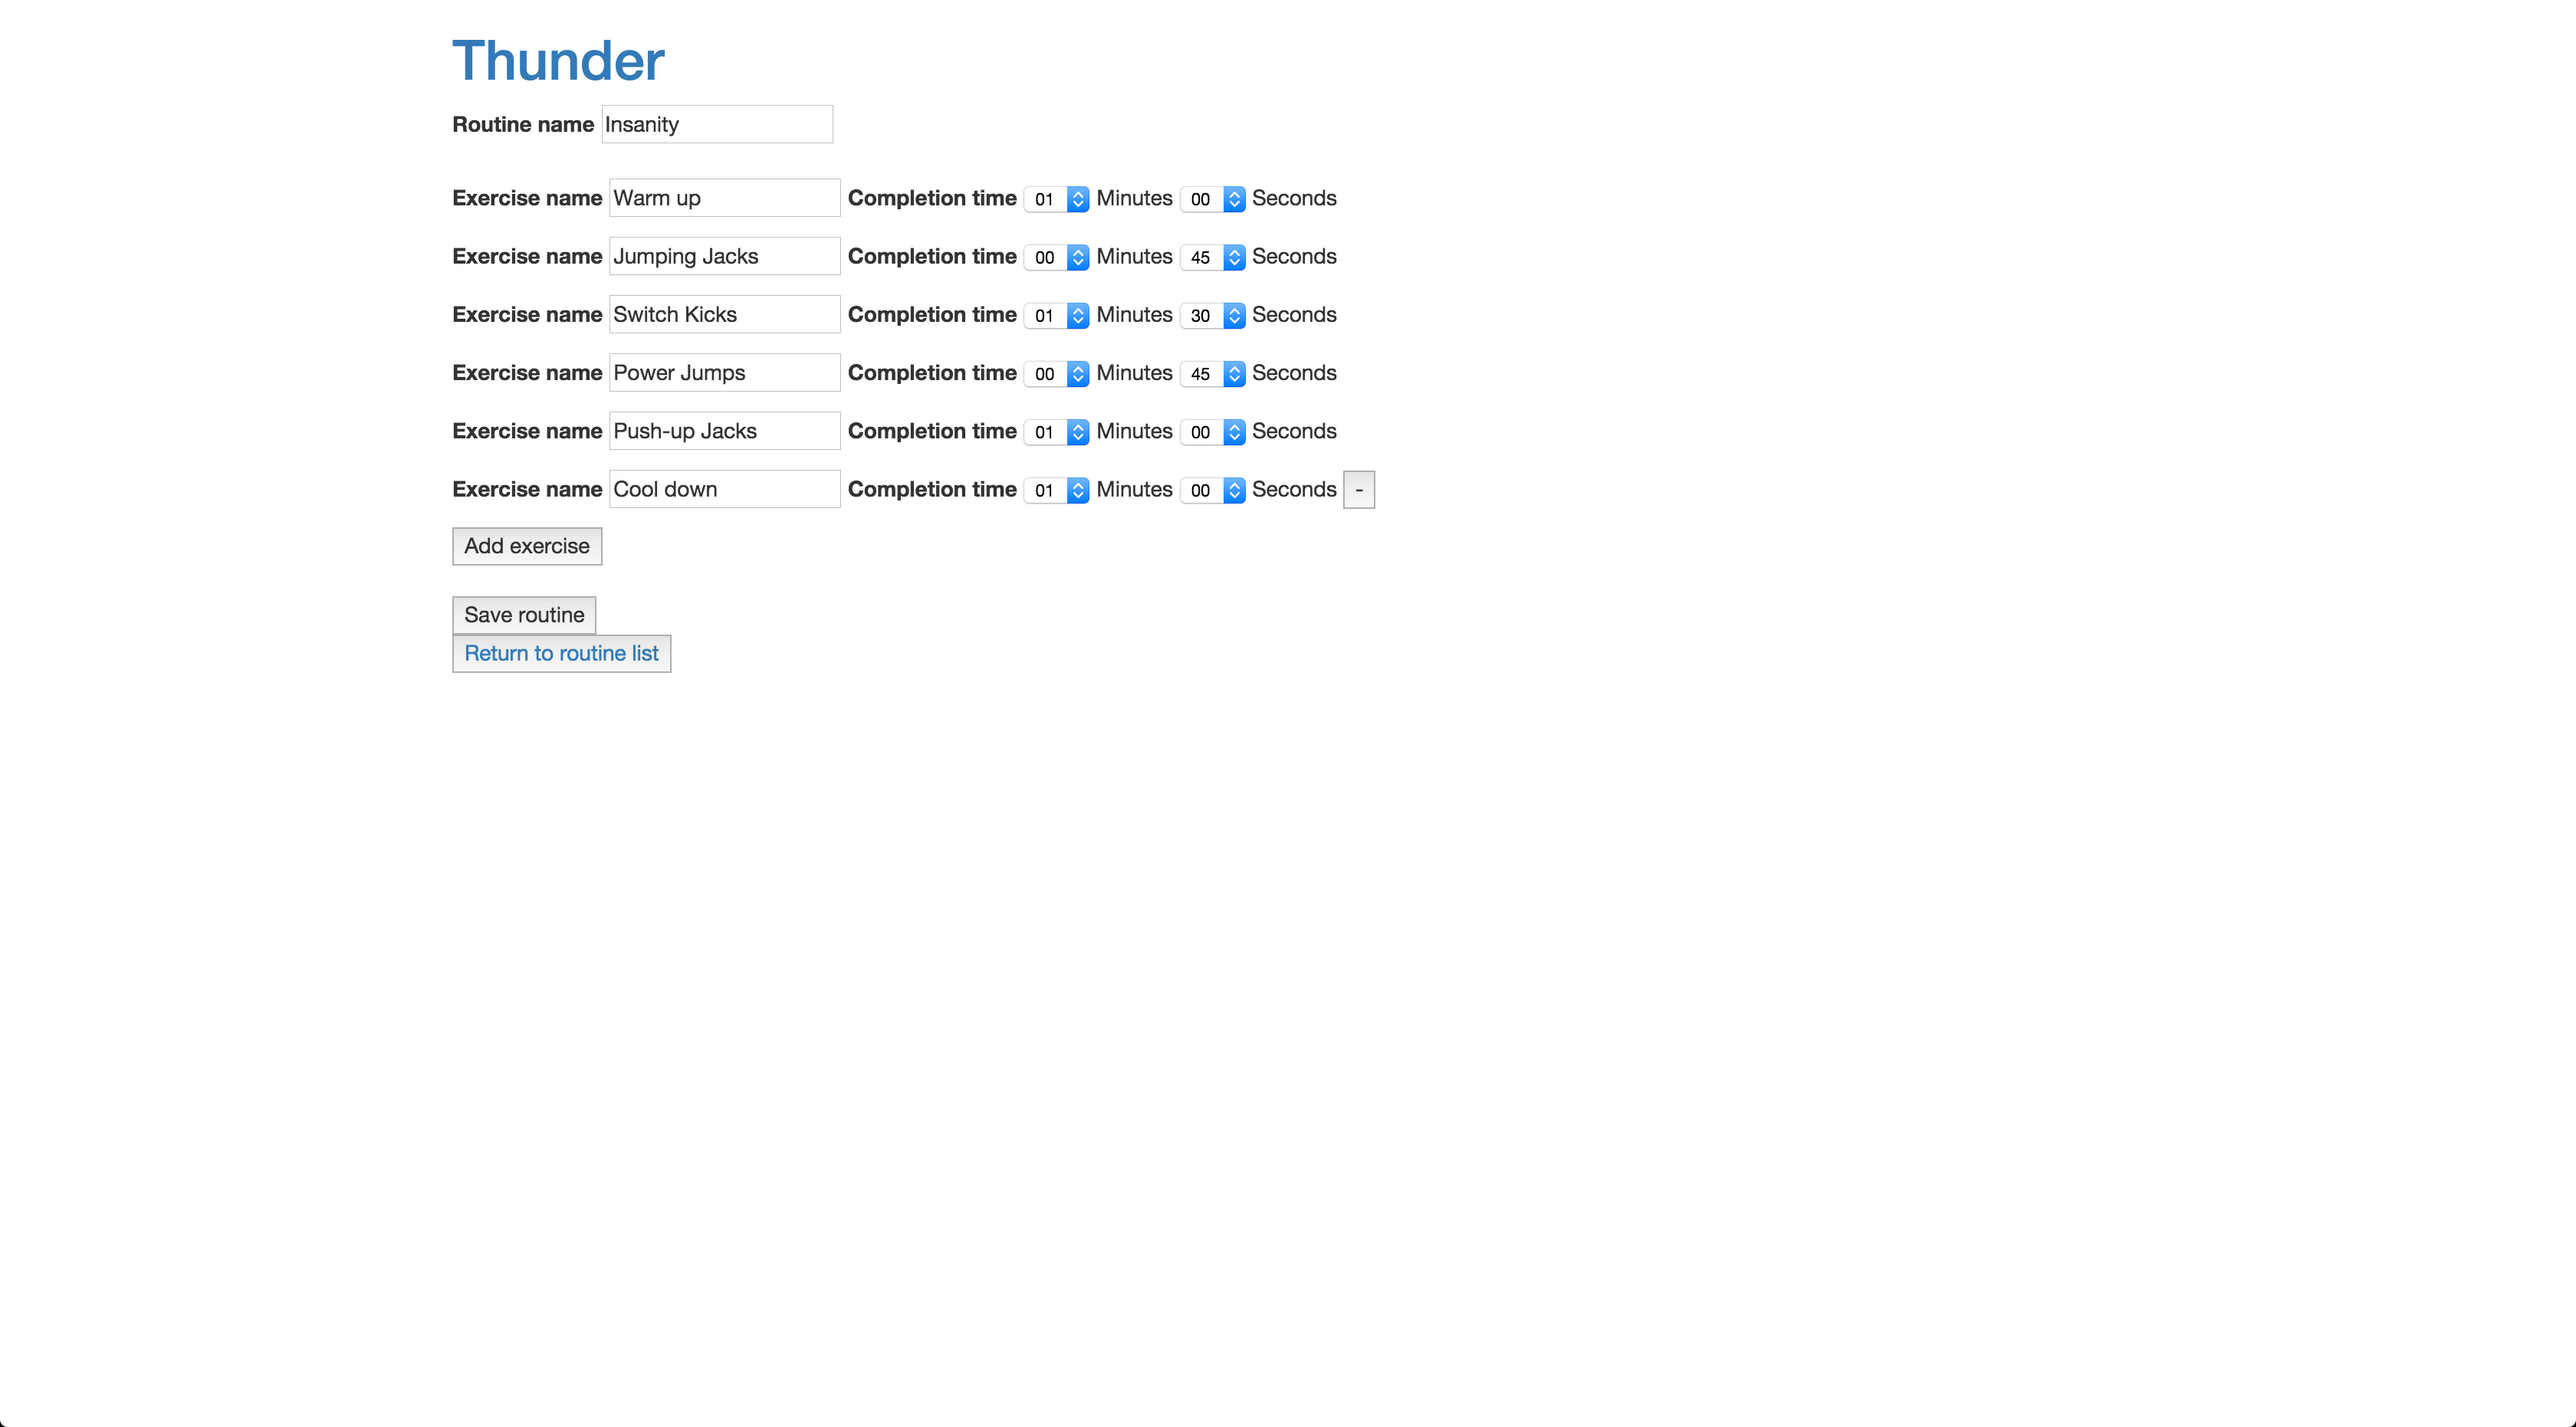
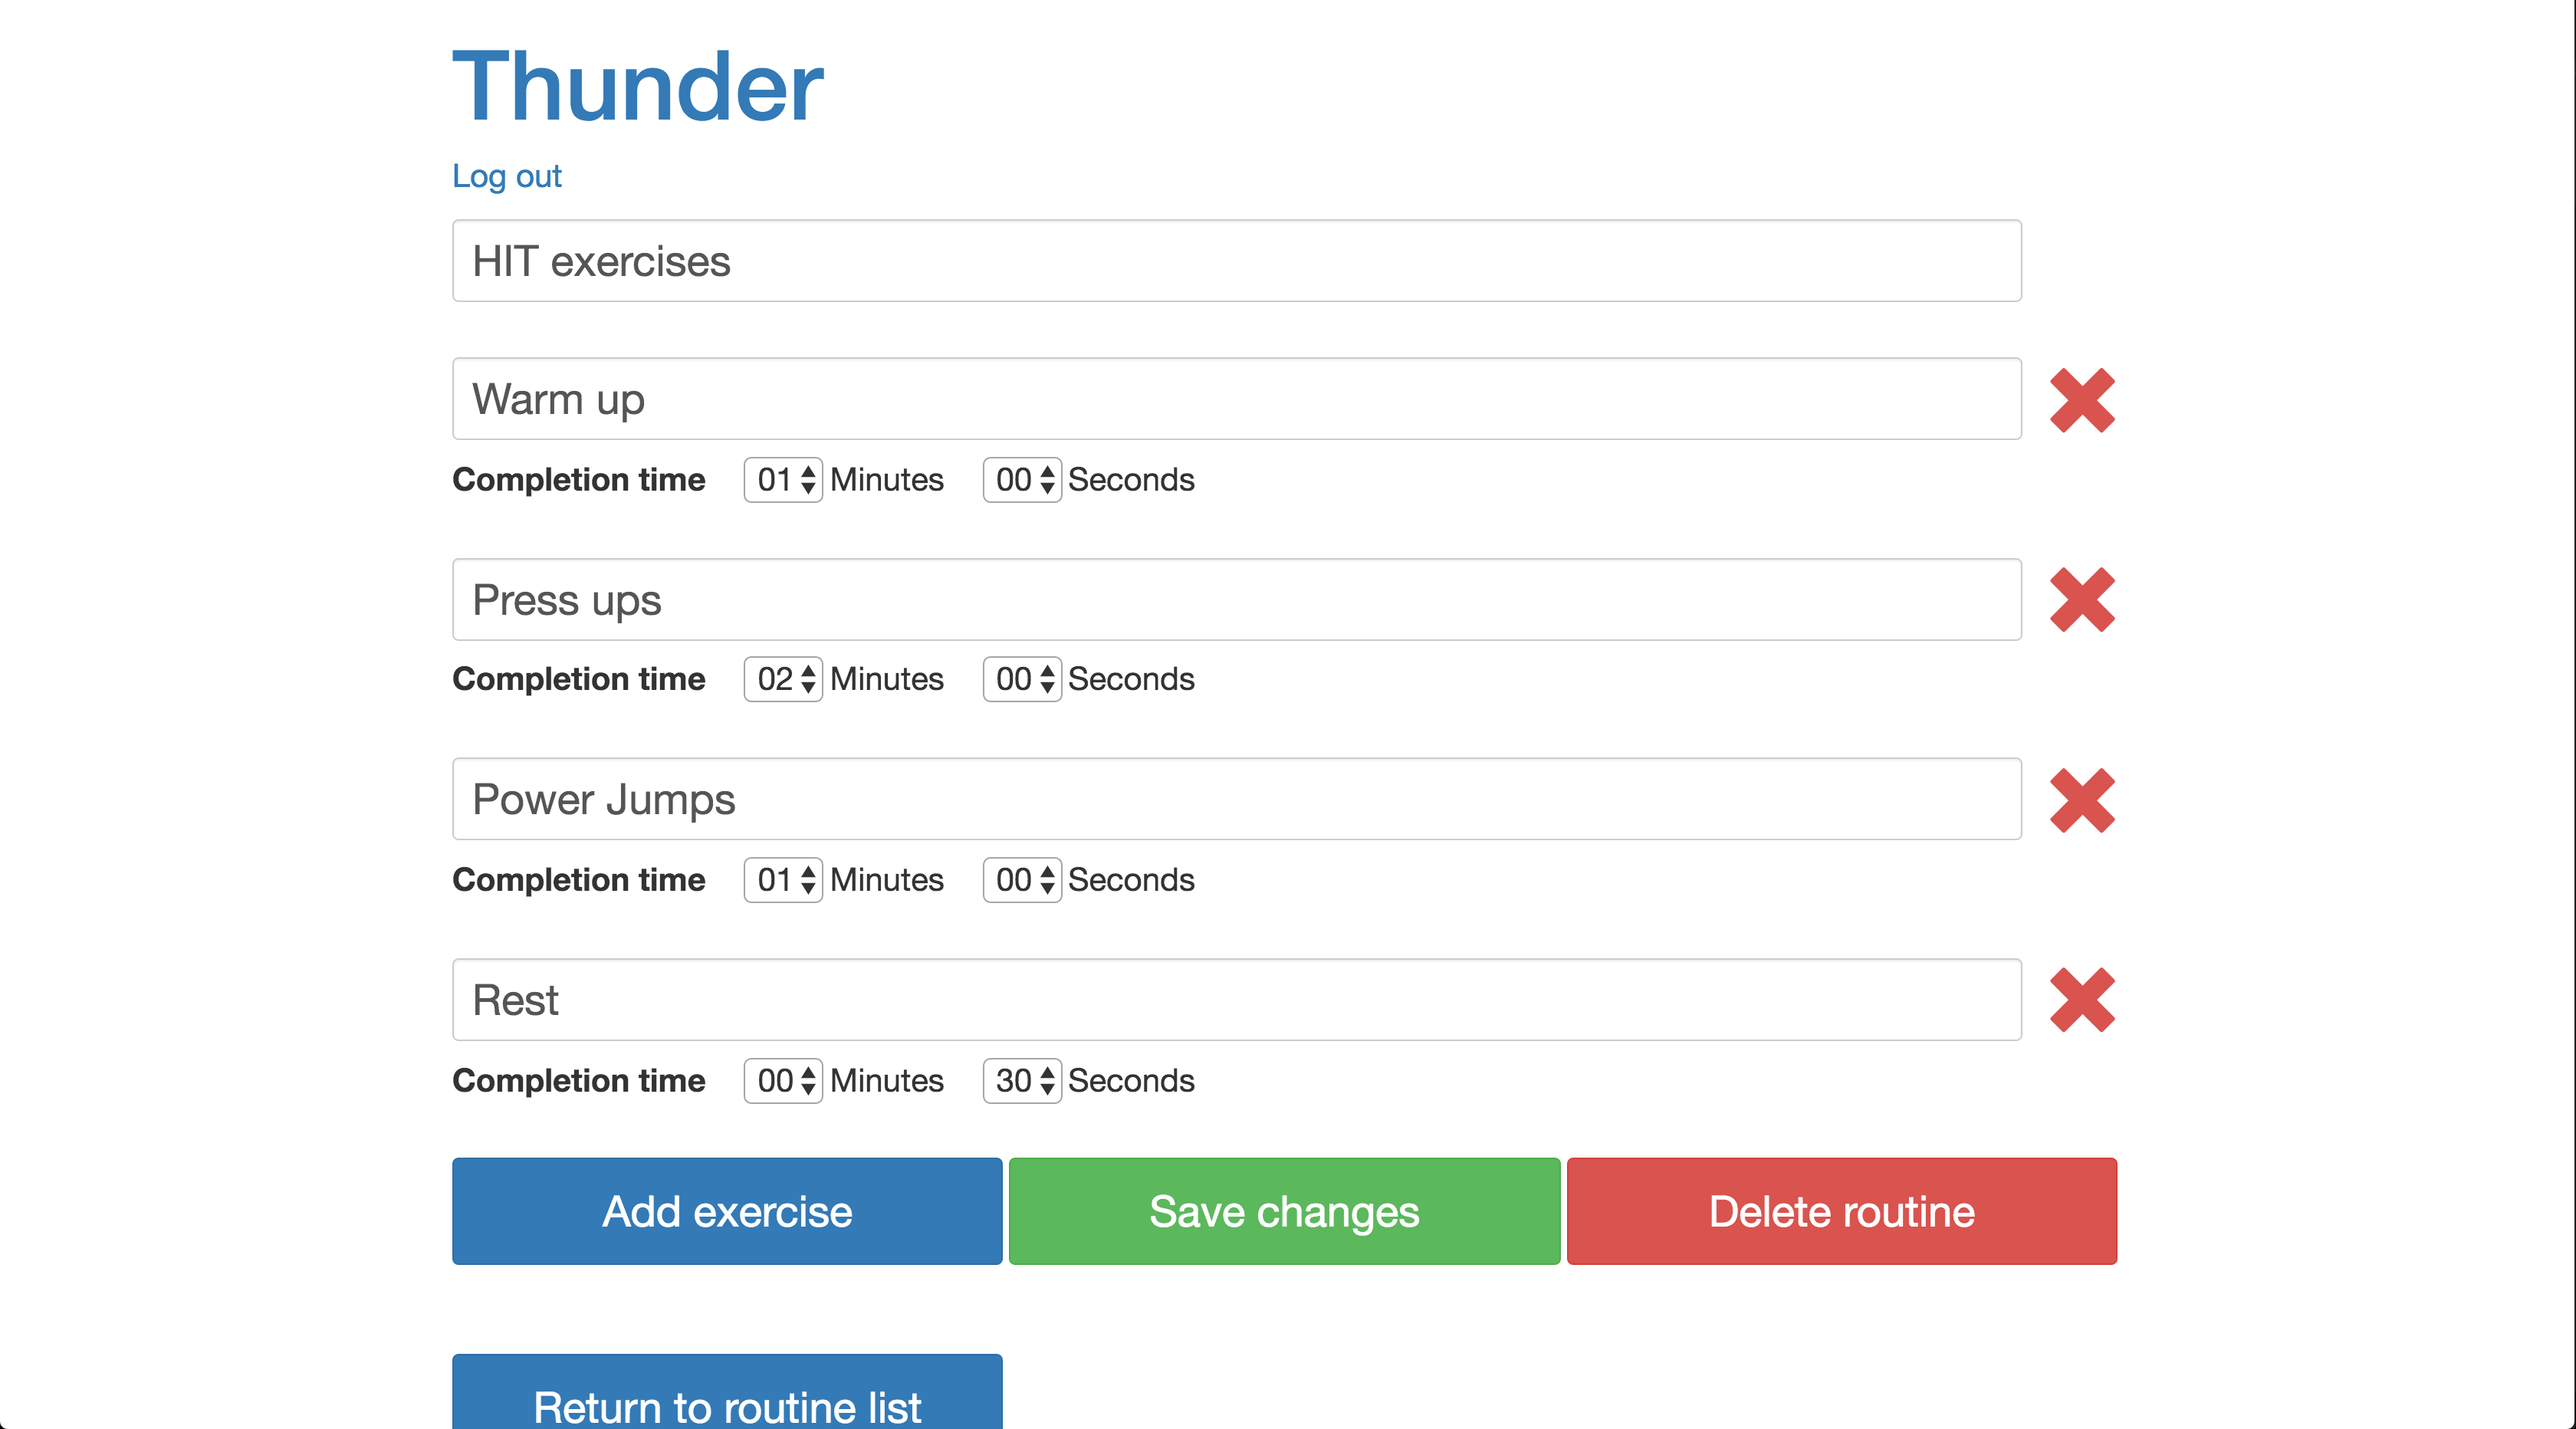
Changed thunder pictures

diff --git a/thunder.html b/thunder.html
@@ -48,7 +48,7 @@
 
             <p>While these are great for beginners, changing the options within them can difficult when the time comes to develop a tailored workout plan. This can be a result of limited choices or a bloated application that makes operating it confusing. Because of this, I wanted to develop a simple tool that the user could utilise however they wished.</p>
 
-            <a href="http://thunder.kayra.co.uk/" target="_blank"><img src="resources/images/thunder_use.png"></a>
+            <a href="http://thunder.kayra.co.uk/" target="_blank"><img src="resources/images/thunder_list.png"></a>
 
             <p>Thunder lets a user create a custom workout of any kind. They can then use the timer to keep track of their workout. This allows a wider variety of possibilities than currently available in fitness applications, while keeping the operation of the app simple enough that it is convenient to use.  One example is creating a 5km high intensity training run. Along side this the user can create a 30 minute stretch routine for flexibility. Users can even enter exercise classes such as Zumba or Insanity to take with them and tailor to their own needs. </p>
 
